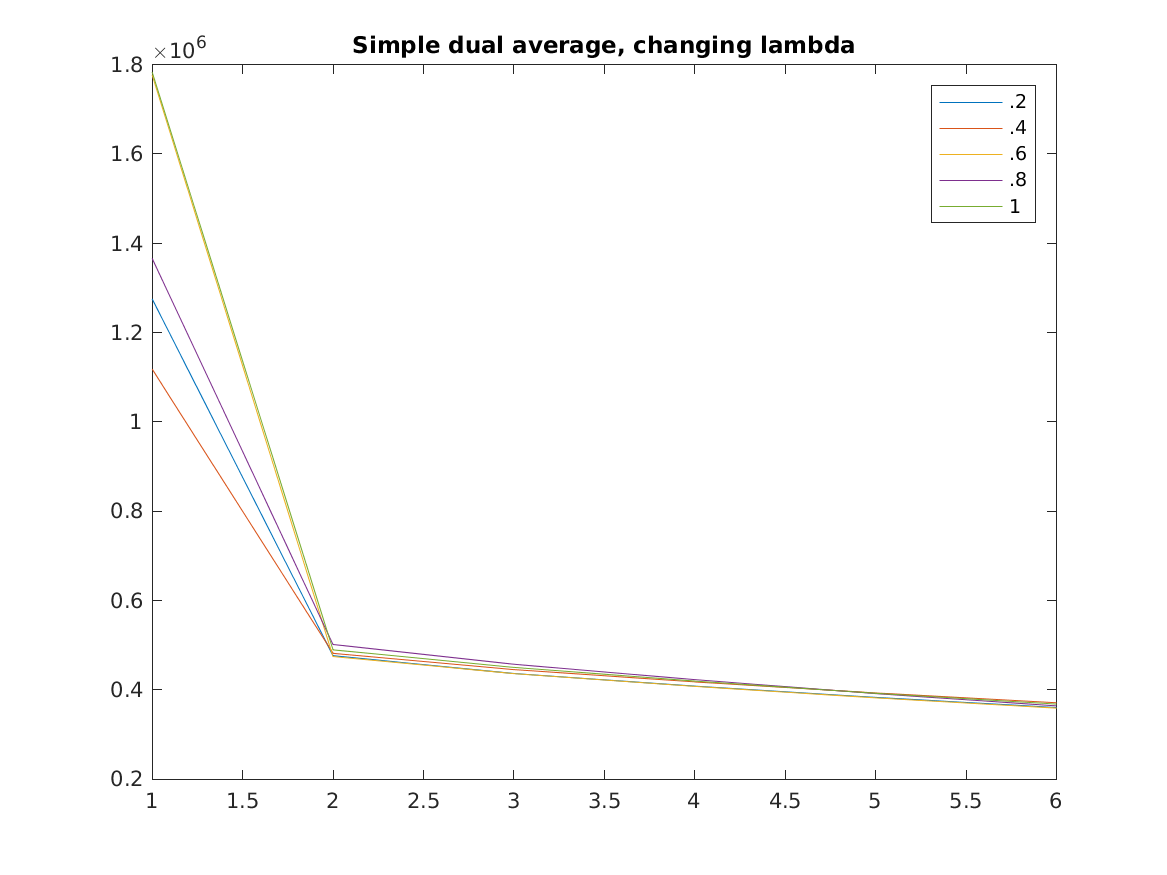
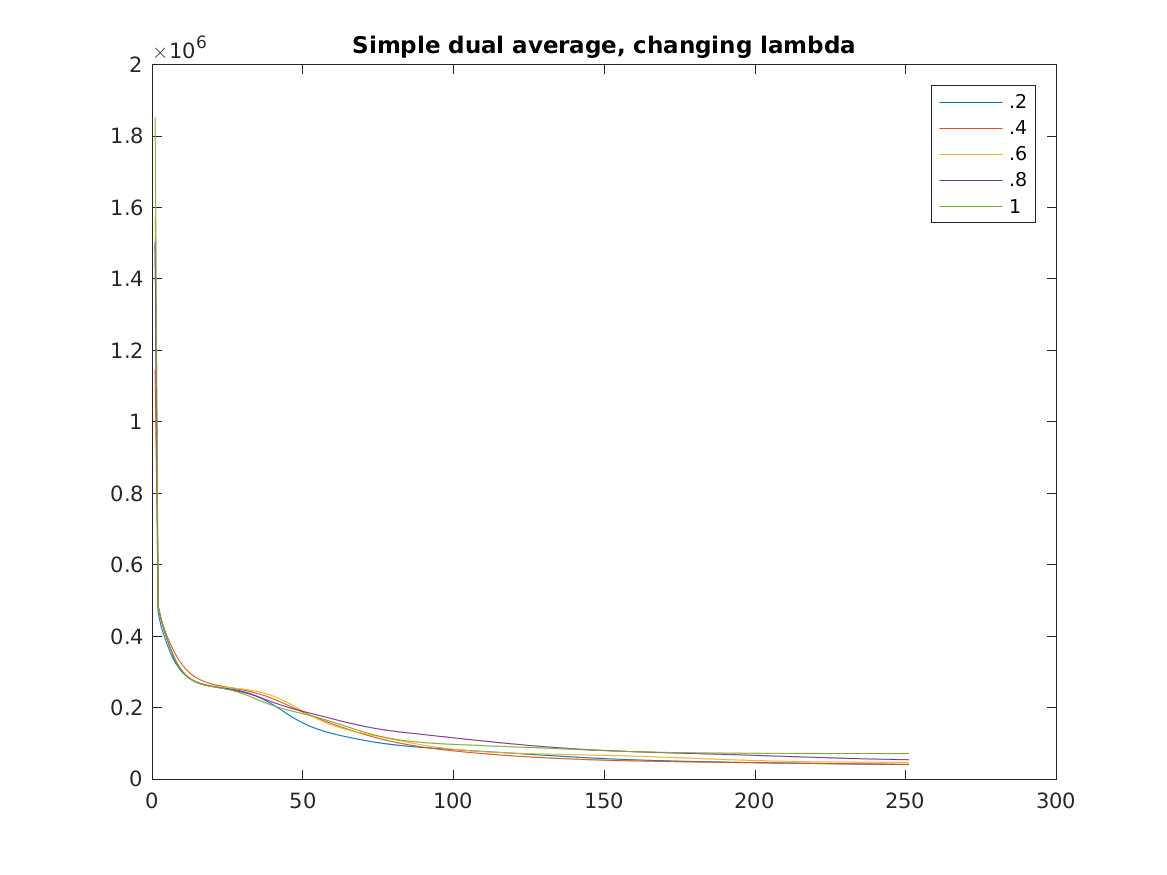
more results

diff --git a/expr_all.m b/expr_all.m
@@ -1,4 +1,4 @@
-function [] = expr_all()
+function [] = expr_all(N)
 rows = 40;
 cols = 5000;
 W = [];
@@ -44,6 +44,7 @@ Th0 = diag(Th0);
     end
 
 
+if N == 1
 % perform the experiments on the Proj GD
  % changing the step size, fixed
  stepPlots = [];
@@ -59,14 +60,18 @@ legend('.1', '.01', '.001', '.0001');
 print('pgd-fixed-step.png', '-dpng');
 save('pgd-stepPlotRes.mat', 'stepPlots');
 stepPlots = [];  % clear
+end
 
+if N == 2
 % step inner 1/k
 [Obj, ObjWLL, ObjThLL, ObjHLL] = run_pgd(.01, .5, .5, 1, 0);
 plot(1:size(Obj), Obj);
 title('Projected gradient, 1/k step scaling');
 print('pgd-dec-step.png', '-dpng');
 save('pgd-decStep.mat', 'Obj');
+end
 
+if N == 3
 % different lambda
 lambdaPlots = [];
 for lambda = .2 * (1:5)
@@ -79,7 +84,9 @@ legend('.2', '.4', '.6', '.8', '1');
 print('pgd-lambda.png', '-dpng');
 save('pgd-lambda.mat', 'lambdaPlots');
 lambdaPlots = [];
+end
 
+if N == 4
 % different eta
 etaPlots = [];
 for eta = .2 * (1:5)
@@ -92,16 +99,20 @@ legend('.2', '.4', '.6', '.8', '1');
 print('pgd-eta.png', '-dpng');
 save('pgd-eta.mat', 'etaPlots');
 etaPlots = [];
+end
 
+if N == 5
 % stopping the inner loops using the norm of their gradients
 [Obj, ObjWLL, ObjThLL, ObjHLL] = run_pgd(.01, .5, .5, 0, 1);
 plot(1:size(Obj, 1), Obj);
 title('Early stopping with gradient norm');
 save('pgd-early-stop.mat', 'Obj');
 print('pgd-early-stop.png', '-dpng');
+end
 
 % perofrm the experiments on the SDA
 
+if N == 6
  % different lambda
  lambdaPlots = [];
 for lambda = .2 * (1:5)
@@ -114,7 +125,9 @@ legend('.2', '.4', '.6', '.8', '1');
 print('sda-lambda.png', '-dpng');
 save('sda-lambda.mat', 'lambdaPlots');
 lambdaPlots = [];
+end
 
+if N == 7
  % different eta
 etaPlots = [];
 for eta = .1 * (1:5)
@@ -127,6 +140,6 @@ legend('.1', '.2', '.3', '.4', '.5');
 print('sda-eta.png', '-dpng');
 save('sda-eta.mat', 'etaPlots');
 etaPlots = [];
-
+end
 
 end

diff --git a/proj_sub_grad.m b/proj_sub_grad.m
@@ -21,6 +21,7 @@ while norm(grad_x_k)>eps && k <= max_iters
         [ ~,~,grad_x_k ] = sub_grads( A ,B ,x_k , X, lambda, eta );
     end
     if norm(grad_x_k)<=eps
+        k = k + 1;  % since we are going to pad the objs, have the right count
         break
     else
         if step_over_k == 1
